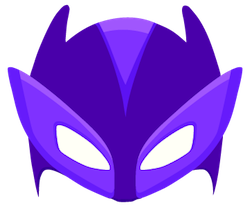
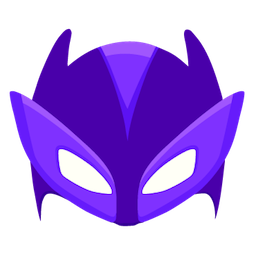
GitBook: [master] 4 pages and 2 assets modified

Changed region(s): [[0.0282, 0.0, 0.9879, 0.9855]]

diff --git a/README.md b/README.md
@@ -1,6 +1,6 @@
 # About
 
-## ![](.gitbook/assets/super.png) What is WayScript?
+## ![](.gitbook/assets/super%20%281%29.png) What is WayScript?
 
 🦸♀ WayScript is a drag and drop programming platform built to give you superpowers.
 
@@ -23,4 +23,6 @@ We publish weekly [YouTube tutorials](https://youtube.com/c/wayscript) of use ca
 ## 🔒 Privacy
 
 We care about your privacy. We are not sharing data about you with advertisers nor anybody else.
+
+![](.gitbook/assets/super.png)
 

diff --git a/getting_started/looping-iteration.md b/getting_started/looping-iteration.md
@@ -8,7 +8,7 @@ If you have not read about [WayScript Lists](variables.md#lists), please do so b
 
 In programming, a **for-loop** is a control-flow statement directing your program to execute the loop's contents repeatedly. 🔁 
 
-## ![](../.gitbook/assets/super.png) Looping with WayScript
+## ![](../.gitbook/assets/super%20%281%29.png) Looping with WayScript
 
 ![](../.gitbook/assets/screenshot-2019-07-15-16.26.19.png)
 

diff --git a/getting_started/feedback-bug-reporting.md b/getting_started/feedback-bug-reporting.md
@@ -4,7 +4,7 @@ description: We would love to hear from you!
 
 # Feedback and Bug Reporting
 
-## ![](../.gitbook/assets/super.png) Be a Superhero!
+## ![](../.gitbook/assets/super%20%281%29.png) Be a Superhero!
 
 Submit bugs, feature requests, or feedback you would like to share with the WayScript team!
 

diff --git a/getting_started/hello-world.md b/getting_started/hello-world.md
@@ -1,6 +1,6 @@
 # Hello World
 
-## ![](../.gitbook/assets/super.png) Creating a WayScript Program
+## ![](../.gitbook/assets/super%20%281%29.png) Creating a WayScript Program
 
 ### 🌏 Initialize a New Program
 
